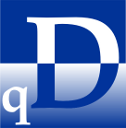
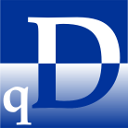
Minor changes have been made to conform freedesktop.org

diff --git a/qtDbf/src/help/qtdbf_ru.html b/qtDbf/src/help/qtdbf_ru.html
@@ -5,7 +5,7 @@
         <title>qtDbf Help</title>
 </head>
 <body>
-<h2 align='center'><font COLOR="#004586">qtDbf 0.9.7</font></h2>
+<h2 align='center'><font COLOR="#004586">qtDbf 0.9.8</font></h2>
 
 <h3><font color="red">Предупреждение!</font></h3>
 

diff --git a/qtDbf/src/help/qtdbf_hu.html b/qtDbf/src/help/qtdbf_hu.html
@@ -6,7 +6,7 @@
 <body>
 
 
-<h2 align='center'><font COLOR="#004586">qtDbf 0.9.7</font></h2>
+<h2 align='center'><font COLOR="#004586">qtDbf 0.9.8</font></h2>
 
 <h3><font color="red">Figyelem !</font></h3>
 

diff --git a/qtDbf/src/help/qtdbf_ro.html b/qtDbf/src/help/qtdbf_ro.html
@@ -6,7 +6,7 @@
 <body>
 
 
-<h2 align='center'><font COLOR="#004586">qtDbf 0.9.7</font></h2>
+<h2 align='center'><font COLOR="#004586">qtDbf 0.9.8</font></h2>
 
 <h3><font color="red">Atenţie !</font></h3>
 

diff --git a/qtDbf/src/help/qtdbf_en.html b/qtDbf/src/help/qtdbf_en.html
@@ -7,7 +7,7 @@
 <body>
 
 
-<h2 align='center'><font COLOR="#004586">qtDbf 0.9.7</font></h2>
+<h2 align='center'><font COLOR="#004586">qtDbf 0.9.8</font></h2>
 
 <h3><font color="red">Warning !</font></h3>
 

diff --git a/qtDbf/src/main.cpp b/qtDbf/src/main.cpp
@@ -54,7 +54,7 @@ int main(int argc, char *argv[])
     QSettings settings("voral", "qtDbf");
     QString dbfLocal = settings.value("dbflocal", QLocale::system().name().left(2)).toString();
 
-    QCoreApplication::setOrganizationName("Voral"); // was Hevele-Hegyi-Istvan
+    QCoreApplication::setOrganizationName("voral"); // was Hevele-Hegyi-Istvan
     QCoreApplication::setOrganizationDomain("va-soft.ru"); // was hevele.juniorcom.ro
     QCoreApplication::setApplicationName("qtDbf");
 
@@ -80,7 +80,7 @@ int main(int argc, char *argv[])
 #else
     dbfDirPath = app.applicationDirPath();
 #endif
-    dbfDirPath += "/lang/qtDbf_";
+    dbfDirPath += "/lang/qtdbf_";
     dbfDirPath += dbfLocal;
     dbfDirPath += ".qm";
 
@@ -99,7 +99,7 @@ int main(int argc, char *argv[])
         db.open();
         if (db.lastError().isValid())
            {
-            QMessageBox::critical(0, "Eroare", db.lastError().text());
+            QMessageBox::critical(0, QObject::tr("Error"), db.lastError().text());
            }
     }
 

diff --git a/qtDbf/src/dbfeditor.cpp b/qtDbf/src/dbfeditor.cpp
@@ -2099,15 +2099,15 @@ void QDbfEditor::helpDbf()
     QString dbfDirPath;
 /**/
 #ifdef Q_OS_UNIX
-    if (QFile::exists("/usr/local/share/doc/qtdbf/help"))
+    if (QFile::exists("/usr/local/share/qtdbf/help"))
     {
-        dbfDirPath = "/usr/local/share/doc/qtdbf/help";
+        dbfDirPath = "/usr/local/share/qtdbf/help";
     }
     else
     {
-        if (QFile::exists("/usr/share/doc/qtdbf/help"))
+        if (QFile::exists("/usr/share/qtdbf/help"))
         {
-            dbfDirPath = "/usr/share/doc/qtdbf/help";
+            dbfDirPath = "/usr/share/qtdbf/help";
         }
         else
         {
@@ -2178,7 +2178,7 @@ void QDbfEditor::about()
 
    explic = tr("<b align='center'>qtDbf</b> <p>- an open source, multiplatform DBF viewer and editor written in Qt and using SQLite.</p>");
 
-   QMessageBox::about(this, tr("qtDbf 0.9.7"), explic);
+   QMessageBox::about(this, tr("qtDbf 0.9.8"), explic);
 }
 
 void QDbfEditor::sortDbf(const QModelIndex& index)
